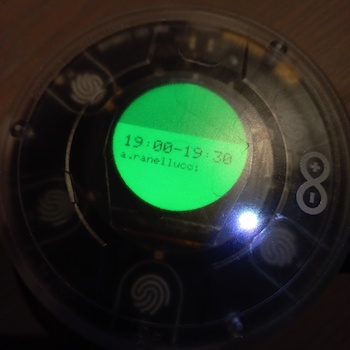
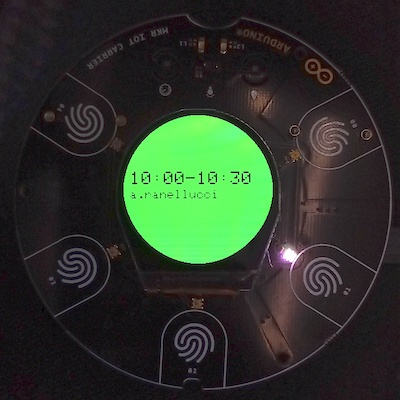
Use better pictures in README

diff --git a/README.md b/README.md
@@ -20,8 +20,6 @@ Bonus points: if you want to be able to update the firmware via WiFi, thus witho
 
 ## How does it look like
 
-(Yeah, these pictures are very ugly. Sorry.)
-
 When the room is busy the screen will be red, and information about the current meeting will be displayed (time slot and guests):
 
 ![](img/busy.jpg)
